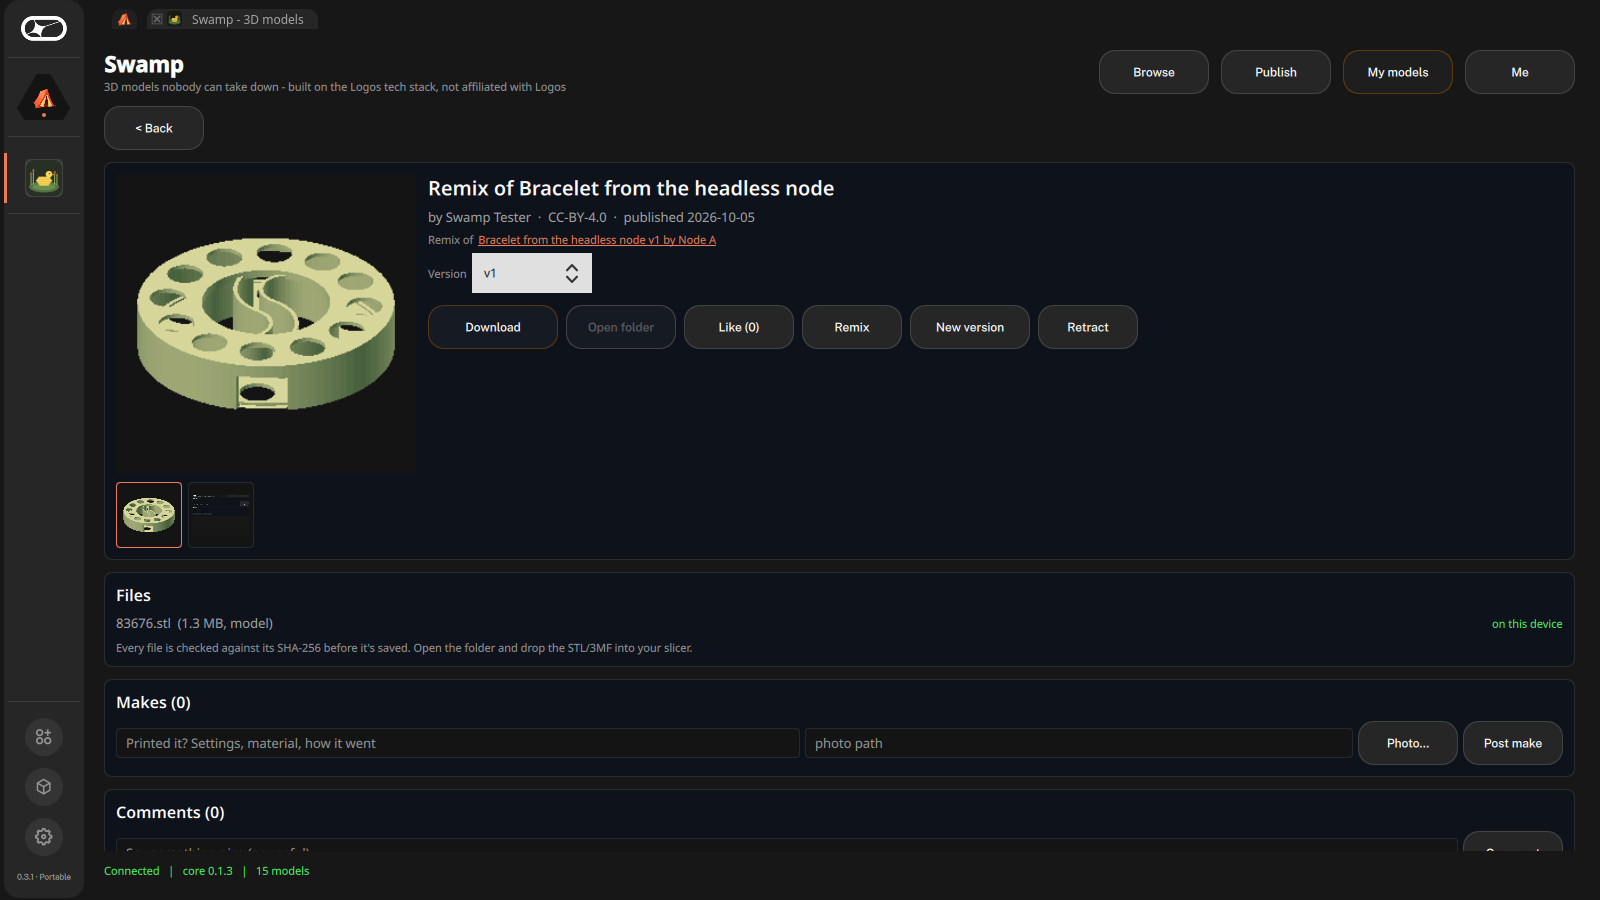
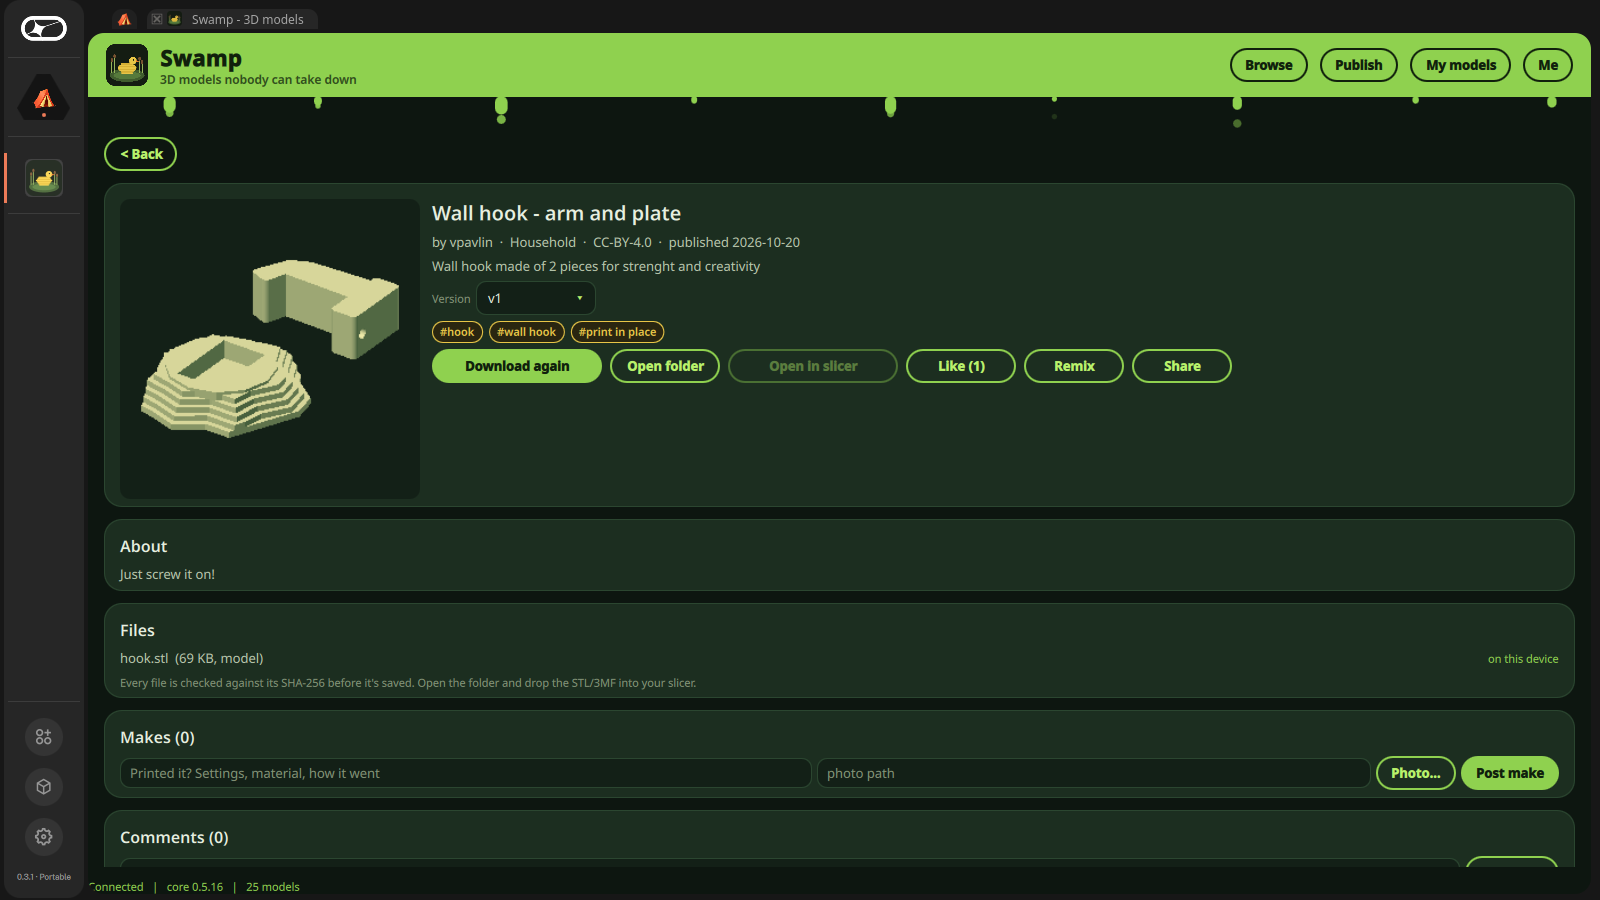
site: status (hub done, downloads you can watch), new screenshots in the current look, link to the diagrams
Not deployed: the install section still names the public repo, which doesn't carry Swamp yet.

diff --git a/site/index.html b/site/index.html
@@ -180,7 +180,8 @@
   <div class="wrap">
     <h2>How it works</h2>
     <p class="muted" style="max-width:46em">A desktop app for Logos Basecamp. Under the hood: signed event logs over
-      Logos Messaging, files in Logos Storage, and soon priority proofs anchored on LEZ, the Logos execution zone.</p>
+      Logos Messaging, files in Logos Storage, and later priority proofs anchored on LEZ, the Logos execution zone.
+      <a href="how.html" style="color:var(--slime2,#b8f26b)">See it in diagrams →</a></p>
     <div class="grid">
       <div class="card"><svg class="icon" viewBox="0 0 32 32" aria-hidden="true"><g fill="none" stroke="currentColor" stroke-width="2.2" stroke-linecap="round" stroke-linejoin="round"><path d="M5 10l11-5 11 5v12l-11 5-11-5z"/><path d="M5 10l11 5 11-5M16 15v12"/></g></svg><h3>Publish</h3><p>Drop in your STL and photos. Swamp hashes every
         file, renders a thumbnail and takes a shape fingerprint. The listing goes out at once, and files upload in the
@@ -209,11 +210,11 @@
     <h2>A look into the bog</h2>
     <p class="muted">Real screenshots from Basecamp 0.3.1, synced over the Logos test network. Click to enlarge.</p>
     <div class="shots">
-      <figure><img src="img/browse.png" alt="Browse: a grid of models with thumbnails"><figcaption>Browse the categories you follow</figcaption></figure>
-      <figure><img src="img/search.png" alt="Search results from the index"><figcaption>"Everywhere": results from an index snapshot, plus how many indexers agree</figcaption></figure>
-      <figure><img src="img/model.png" alt="A remix with its parent link and photo gallery"><figcaption>A remix links its original, with a gallery of the creator's photos</figcaption></figure>
+      <figure><img src="img/browse.png" alt="Browse: a grid of models with thumbnails, two marked Downloaded"><figcaption>Browse the categories you follow; what you've downloaded is marked</figcaption></figure>
+      <figure><img src="img/search.png" alt="Search results: your categories first, then the index"><figcaption>Search: your own categories first, then "Everywhere" from an index snapshot, with how many indexers agree</figcaption></figure>
+      <figure><img src="img/model.png" alt="A model page with Download, Open folder and Open in slicer"><figcaption>A model page: download (verified), open the folder, or open it in your slicer</figcaption></figure>
       <figure><img src="img/make.png" alt="A make posted with a photo"><figcaption>Makes: "I printed it, here's how it went"</figcaption></figure>
-      <figure><img src="img/categories.png" alt="Category subscriptions"><figcaption>Pick what lives in your corner of the swamp</figcaption></figure>
+      <figure><img src="img/categories.png" alt="Categories you follow, and the slicer Swamp opens models in"><figcaption>Pick what lives in your corner of the swamp, and which slicer to use</figcaption></figure>
       <figure><img src="img/retract.png" alt="Retract dialog"><figcaption>Retract your own model: it hides, with your reason</figcaption></figure>
     </div>
   </div>
@@ -278,7 +279,8 @@
       <li class="done"><span>Creators audit the indexers. <small>A hub that silently leaves your model out gets caught with its own signature; a declared exclusion is shown as policy.</small></span></li>
       <li class="done"><span>Open in your slicer, with one-click OrcaSlicer setup. <small>Printing straight to a Bambu Lab A1 over the LAN exists as a switched-off experiment: in its first real test the printer drove its head into the top of its frame, so it stays off until we know why.</small></span></li>
       <li class="done"><span>Share links: send someone a model, they paste it into Swamp.</span></li>
-      <li><span>An always-on hub, so two people behind home routers can share files.</span></li>
+      <li class="done"><span>An always-on hub, so two people behind home routers can share files. <small>It pulls a new model's files while the publisher is online and serves them to everyone after; a 17 MB model went publisher → hub → laptop in one go.</small></span></li>
+      <li class="done"><span>Downloads you can watch: progress per file, a Downloaded list, your slicer of choice. <small>Bambu Studio, OrcaSlicer or PrusaSlicer, found automatically or picked by hand; Open folder takes you to the verified files.</small></span></li>
       <li><span>Copy labels for exact and whole-object copies.</span></li>
       <li><span>"Who published first" anchored on LEZ.</span></li>
       <li><span>Live anonymous query hubs, and sharing evidence between nodes.</span></li>
